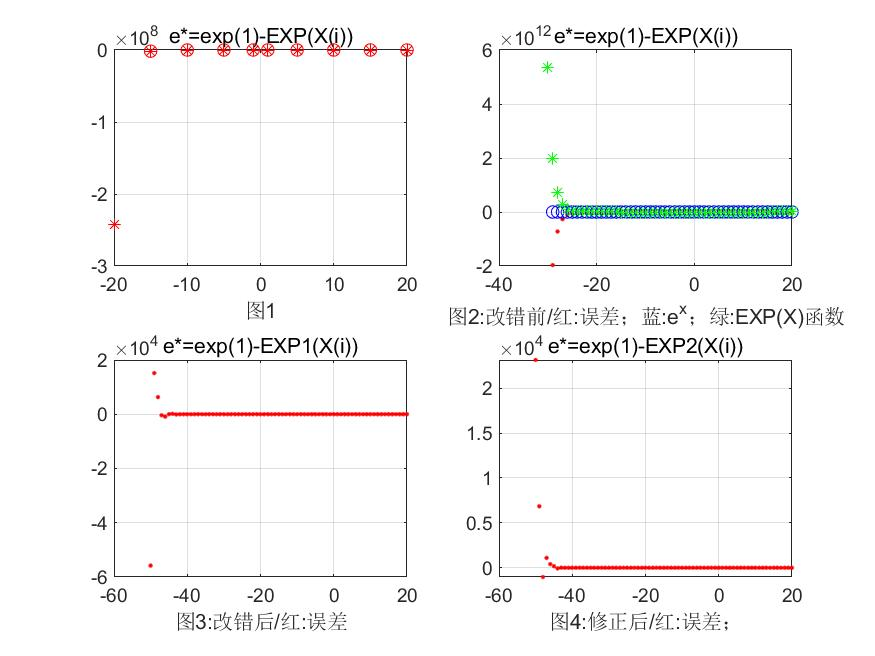
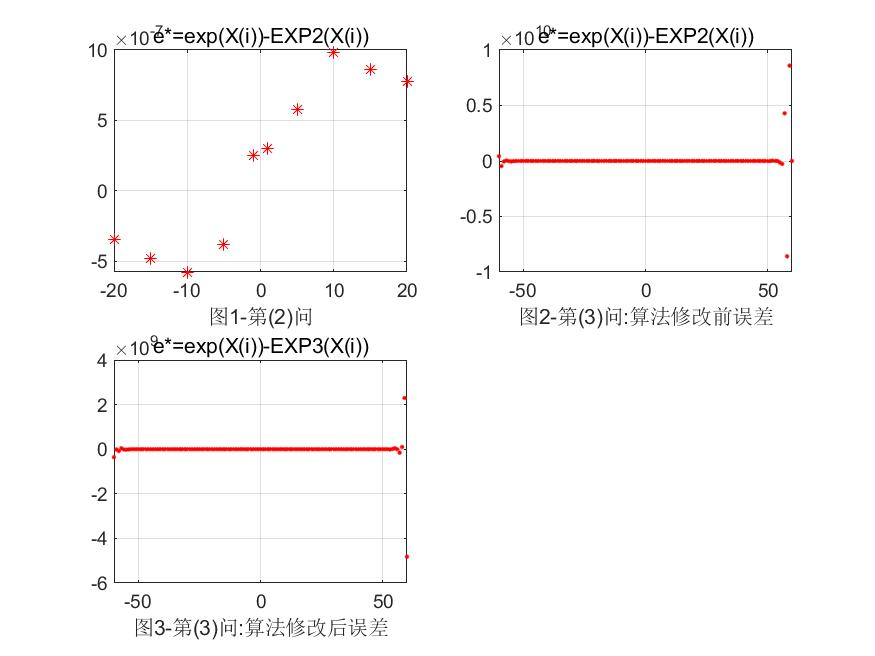
‘V3’

diff --git a/T1/Q5/T1_2.m b/T1/Q5/T1_2.m
@@ -1,101 +1,98 @@
 % T1-Q5
 % author：建筑智能化陈凯（2213041002)
 % Time:22/9/21
-% Version:V2
-%效果图：test_e^-25.jpg;       Q5.jpg
-%子函数：EXP(x);EXP1(x);EXP2(x);
+% Version:V3
 
-clc;
-clear;
+%题目：用泰勒展开计算e^x
+%效果图：test_e^-25.jpg; Q5.jpg
+%子函数：EXP1(x);EXP2(x);EXP3(x);
 
-%(1):为了让计算机不陷入死循环，控制计算时间，经过计算，
-%     设置阈值1e-15，低于此精度的数据直接舍去不再计算
+clc;clear;close all
 
-%%%%%%%%%%%%%%%%%%%%%%%%%%%%%%%%%%%%%%%%%%%%%%
+%%
+%(1):若按自然顺序计算，应该采取什么判停标准
+%答：为了让计算机不陷入死循环，控制计算时间，设置阈值1e-6，
+%低于此的数据直接舍去不再计算
+
+
+
+
+%%
+%(2):测试多个x值，与MATLAB的exp(x)作比较求误差
 %图1
-%(2):测试多个x值，与MATLAB的exp(1)作比较求误差
-%提前封装好计算函数EXP(X);
-X=[-20,-15,-10,-5,-1,1,5,10,15,20];%X数组存放初始值
-E=[];%E数组存放误差error
-for(i=1:1:10)
-    E(i)=exp(X(i))-EXP(X(i));
+%提前封装好计算函数EXP2(X);
+X=[-20,-15,-10,-5,-1,1,5,10,15,20];
+E1(1:1)=1;%E数组存放误差error
+
+for i=1:1:10 
+    E1(i)=exp(X(i))-EXP2(X(i));
     subplot(2,2,1);
-    plot(X(i),E(i),'o-r');
-    plot(X(i),E(i),'*-r');
-    title('e*=exp(1)-EXP(X(i))');
-    xlabel('图1');
+    plot(X(i),E1(i),'*-r');
+    title('e*=exp(X(i))-EXP2(X(i))');
+    xlabel('图1-第(2)问');
     hold on;
-    grid on;
 end
-    hold off;
+    grid on;
+%误差评估：[-20,20]区间的误差是1e-7级别的，还可以接受
+%但是如果做延长，延伸到[-50,50]区间误差就已经大到不能接受了
 
-%%%%%%%%%%%%%%%%%%%%%%%%%%%%%%%%%%%%%%%%%
+
+
+
+%%
+%(3):X<0时，能否得到准确的结果，不能则改进
+
 %图2
-%在-30<x<20多次取值，再看一次
-X=[-30:1:20];
-for(i=1:1:51)
-    E(i)=exp(X(i))-EXP(X(i));
+%在-60<x<60多次取值，看EXP2修改前效果
+X=-60:1:60;
+E2(1:1)=1;
+for i=1:1:121
+    E2(i)=exp(X(i))-EXP2(X(i));
     subplot(2,2,2);
-    plot(X(i),E(i),'.-r','DisplayName','E(i)');
-    plot(X(i),exp(X(i)),'o-b','DisplayName','exp(X(i))');
-    plot(X(i),EXP(X(i)),'*-g','DisplayName','EXP(X(i))');
-    title('e*=exp(1)-EXP(X(i))');
-    xlabel('图2:改错前/红:误差；蓝:e^x；绿:EXP(X)函数');
+    plot(X(i),E2(i),'.-r','DisplayName','E(i)');
+    title('e*=exp(X(i))-EXP2(X(i))');
+    xlabel('图2-第(3)问:算法修改前误差');
     hold on;
-    grid on;
 end
-    hold off;
+    grid on;
 
+%从图2可以看到，x在50-100上，误差大到e10以上，
+%     对函数进行修改：
+%     从图像3可以看到，-25<x<0阶段误差结果较好，在x<-25时
+%     误差呈指数级别波动，分析原因。打开test1文件查看
+%     e^-25的级数展开各项数值:图片'test_e_25.jpg'
 
-%(3):从图像2可以看到，x<-25以后，误差呈指数级增大，
-%     对函数进行修改：从原理上分析，忽视了X<0的情况，阈值就错误了
-%     同时必定发生了大数吃小数的问题，将求和函数
-%     修改成EXP1，下面再看一组修改后函数EXP1的效果
-%%%%%%%%%%%%%%%%%%%%%%%%%%%%%%%%%%%%%%%%%
-%图3
-%在-30<x<20多次取值，看EXP1修改后效果
-X=[-50:1:20];
-for(i=1:1:71)
-    E(i)=exp(X(i))-EXP1(X(i));
+%误差分析：
+%例如：级数展开的某一项数值为e100级别，在MATLAB中计算精度为16位截断
+%当超过16位就无法保证有效数字，那么截断误差为e84的级别
+%n项累积下来的截断误差就难以接受了
+
+%考虑避开MATLAB中16位超额截断的设置(目前无法逾越的关键问题)
+%算法小的优化：采用MATLAB自带工具包 sym与vpa函数强行提高计算精度
+%在此设计思路下，修改算法为EXP3(X)
+X=-60:1:60;
+E22(1:1)=1;
+for i=1:1:121
+    E22(i)=exp(X(i))-EXP3(X(i));
     subplot(2,2,3);
-    plot(X(i),E(i),'.-r','DisplayName','E(i)');
-%     plot(X(i),exp(X(i)),'o-b','DisplayName','exp(X(i))');
-%     plot(X(i),EXP(X(i)),'*-g','DisplayName','EXP(X(i))');
-    title('e*=exp(1)-EXP1(X(i))');
-    xlabel('图3:改错后/红:误差');
+    plot(X(i),E22(i),'.-r','DisplayName','E(i)');
+    title('e*=exp(X(i))-EXP3(X(i))');
+    xlabel('图3-第(3)问:算法修改后误差');
     hold on;
-    grid on;
 end
-    hold off;
-
-%(4):从图像3可以看到，-25<x<0阶段误差结果较好，在x<-25时
-%     误差呈指数波动，再次分析原因。打开test1文件查看
-%     e^-25的级数各项数值:图片'test_e_25.jpg'
-%考虑将相邻的正负数相加，同时，对级数中1e10以上的数值
-%两两相加以避开MATLAB中16位超额截断的设置
-%在此设计思路下，修改算法为EXP2(X)
-%%%%%%%%%%%%%%%%%%%%%%%%%%%%%%%%%%%%%%%%%
-%图4
-%查看点位细节，在此算法思路[EXP2]下
-%e^(负数）达到了
-% error(e^-47)=1096.38的精度！！！
-%至于x<-50后产生的巨大误差，暂时还没有解决思路
-%涉及到了MATLAB的计算机制：数据超过16位自动四舍五入
-%观察test_e_25.jpg可以看到在级数的峰值上达到了1e10以上的大数
-%在x<-50后产生的巨大误差正是由此引起的
-
-X=[-50:1:20];
-for(i=1:1:71)
-    E(i)=exp(X(i))-EXP2(X(i));
-    subplot(2,2,4);
-    plot(X(i),E(i),'.-r');
-    title('e*=exp(1)-EXP2(X(i))');
-    xlabel('图4:修正后/红:误差；'); 
-    hold on;
     grid on;
-end
-    hold off;
+%参考图2与图3，误差有了10%的提高，从e10降到了e9
+%存在的问题：abs(x)>80时，数值已经大到了MATLAB无法计算：NAN
+
+
+%%
+%(4):在x<0时尝试用分组或重新排列的方式以取得较好的效果
+
+
+%至于abs(x)>50时后产生的巨大误差，暂时还没有解决思路
+%涉及到了MATLAB的计算机制：数据超过16位自动四舍五入截断
+%如果不解决这个问题，想做算法优化还是难以实现
+
+
     
-    
-    
-saveas( 1, 'Q5.jpg');
+saveas(1,'Q5.jpg');

diff --git a/T1/Q5/test1.m b/T1/Q5/test1.m
@@ -1,19 +1,22 @@
-clc;clear;
+clc;clear;close all;
+syms y1 a b add Q W E;
 y1=0;%中间变量
+Q=0;W=1;
+x=-25;
 
-x=-50;
-    for(n=0:1:1000)
-        if(abs((x)^n/factorial(n))>=1)
-            y1=x^n/factorial(n);
-            plot(n,y1,'-*b');
-            hold on;
-            title('e^-25每一项级数的值');
+    for n=0:1:200
+        y=(x^n)/factorial(n);
+        if(abs(y)>1e-6)
+            
+            plot(n,y,'.-b');
+            hold on;  
+            title(['e^',num2str(x),' 每一项级数的值']);
+            xlabel('蓝色是大于1e-6的数，红色是小于1e-6的数');
         else
-            y2=x^n/factorial(n);
-            plot(n,y2,'-*r');
-            hold on;
-            title('e^-25每一项级数的值');
-        end 
-        xlabel('蓝色是大数，红色是小数');
+            plot(n,y,'.-r');
+            hold on;  
+            title(['e^',num2str(x),' 每一项级数的值']);
+            xlabel('蓝色是大于1e-6的数，红色是小于1e-6的数');
+        end
     end
-%    saveas( 1, 'test_e_25.jpg');
+    saveas( 1, 'test_e^-25.jpg');

diff --git a/T1/Q5/EXP3.m b/T1/Q5/EXP3.m
@@ -1,0 +1,30 @@
+function add=EXP3(x)  %e^x
+
+syms y a b; 
+add=0;
+
+if x<0
+    for n=0:1:50000
+        a=vpa(x^n,50);
+        b=vpa(factorial(n),50);
+        y=vpa(a/b,50);
+        if(abs(y)>1e-6)
+            add=add+y;
+        else
+            break    
+        end
+    end
+else  
+    for n=0:1:100000
+            a=vpa(x^n,50);
+            b=vpa(factorial(n),50);
+            y=vpa(a/b,50);
+            if(y>1e-6)
+                add=add+y;
+            else
+            	break
+            end
+    end
+end 
+
+

diff --git a/T1/Q5/EXP1.m b/T1/Q5/EXP1.m
@@ -1,12 +1,12 @@
 function ans_ex=EXP1(x)%e^x的次数
 
     ans_ex=0;%存放结果
-    y=0;%中间变量
 
-    for(n=0:1:10000)
-        if(abs(x^n/factorial(n))>1e-15)
-            y=x^n/factorial(n);
+    for n=0:1:10000
+        y=(x^n)/factorial(n);
+        if(abs(y)>1e-10)
             ans_ex=ans_ex+y;
         end
     end
+    
 end 

diff --git a/T1/Q5/EXP2.m b/T1/Q5/EXP2.m
@@ -2,9 +2,9 @@ function ans_ex=EXP2(x)%e^x的次数
 
     ans_ex=0;%存放结果
 
-    for(n=0:2:10000)
+    for n=0:1:10000
         if(abs(x^n/factorial(n))>1e-6)
-            y=(n+1 +x)*(((x)^n)/factorial(n+1));
+            y=(x^n)/factorial(n);
             ans_ex=ans_ex+y;
         end
     end
